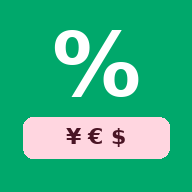
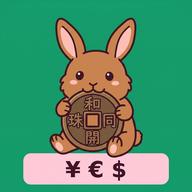
アイコンを新しいデザインに差し替え
Claude-Session: https://claude.ai/code/session_01QG3gYgGUGdWr1UmM9SDRPa

diff --git a/index.html b/index.html
@@ -1071,7 +1071,7 @@ if('serviceWorker' in navigator&&location.protocol==='https:'){try{navigator.ser
 window.addEventListener('online',fetchRates);
 
 /* 自動更新：公開版（https）だけで動く。新しい版が出ていたら、作業中でないときだけ切り替える。作業中なら次に開いたときに新しい版になる */
-const APP_VER='mq-v26';
+const APP_VER='mq-v27';
 {const IDLE=5*60*1000;let lastAct=Date.now(),newVer=null,timer=null;
  ['pointerdown','keydown','input','change','wheel','touchstart'].forEach(t=>document.addEventListener(t,()=>{lastAct=Date.now()},{capture:true,passive:true}));
  const allSaved=()=>!conflict&&!(CLOUD&&(pendingIds.size||saving));

diff --git a/sw.js b/sw.js
@@ -1,5 +1,5 @@
 /* A&L Estimate Lab 用 Service Worker。画面はネット優先（更新がすぐ届く）、オフライン時は保存済みの画面を表示。為替APIはキャッシュしない。 */
-const V='mq-v26';
+const V='mq-v27';
 const SHELL=['./','./index.html','./manifest.webmanifest','./icons/icon-180.png','./icons/icon-192.png','./icons/icon-512.png'];
 self.addEventListener('install',e=>{e.waitUntil(caches.open(V).then(c=>c.addAll(SHELL)).then(()=>self.skipWaiting()))});
 self.addEventListener('activate',e=>{e.waitUntil(caches.keys().then(ks=>Promise.all(ks.filter(k=>k!==V).map(k=>caches.delete(k)))).then(()=>self.clients.claim()))});
